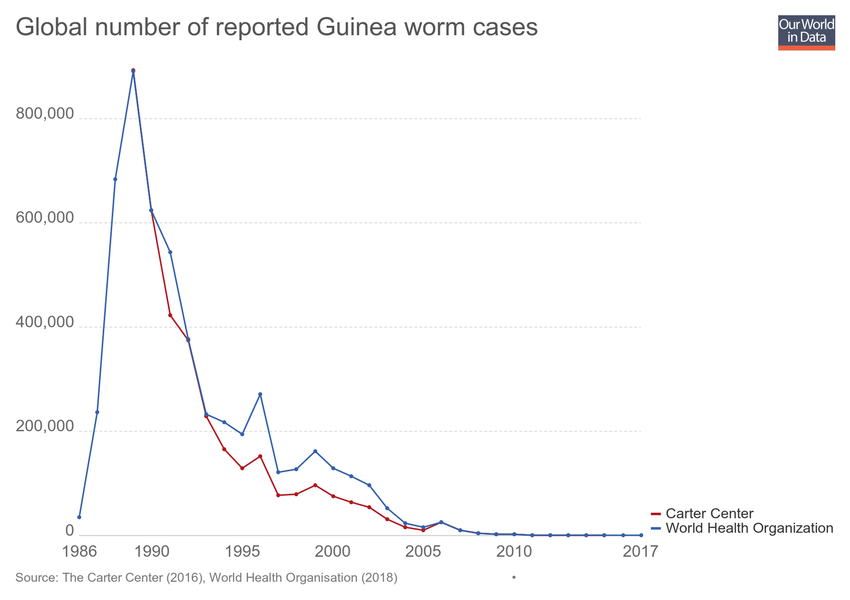
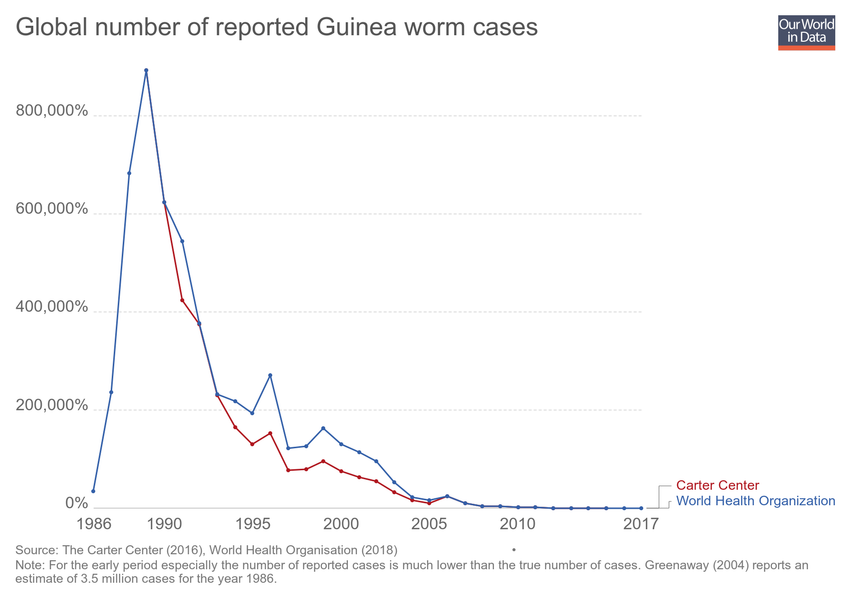
Updating chart global-number-of-reported-guinea-worm-cases

Changed region(s): [[0.0, 0.12, 0.9788, 0.99], [0.0, 0.48, 0.0918, 0.57], [0.1224, 0.63, 0.1529, 0.66]]

diff --git a/grapher/global-number-of-reported-guinea-worm-cases.html b/grapher/global-number-of-reported-guinea-worm-cases.html
@@ -1,4 +1,4 @@
-<!doctype html><html><head><meta name="viewport" content="width=device-width, initial-scale=1" /><title>Global number of reported Guinea worm cases - Our World in Data</title><meta name="description" content="An interactive visualization from Our World in Data." /><link rel="canonical" href="https://ourworldindata.org/grapher/global-number-of-reported-guinea-worm-cases" /><meta property="fb:app_id" content="1149943818390250" /><meta property="og:url" content="https://ourworldindata.org/grapher/global-number-of-reported-guinea-worm-cases" /><meta property="og:title" content="Global number of reported Guinea worm cases" /><meta property="og:description" content="An interactive visualization from Our World in Data." /><meta property="og:image" content="https://ourworldindata.org/grapher/exports/global-number-of-reported-guinea-worm-cases.png?v=6" /><meta property="og:image:width" content="850" /><meta property="og:image:height" content="600" /><meta property="og:site_name" content="Our World in Data" /><meta name="twitter:card" content="summary_large_image" /><meta name="twitter:site" content="@OurWorldInData" /><meta name="twitter:creator" content="@OurWorldInData" /><meta name="twitter:title" content="Global number of reported Guinea worm cases" /><meta name="twitter:description" content="An interactive visualization from Our World in Data." /><meta name="twitter:image" content="https://ourworldindata.org/grapher/exports/global-number-of-reported-guinea-worm-cases.png?v=6" /><style>
+<!doctype html><html><head><meta name="viewport" content="width=device-width, initial-scale=1" /><title>Global number of reported Guinea worm cases - Our World in Data</title><meta name="description" content="An interactive visualization from Our World in Data." /><link rel="canonical" href="https://ourworldindata.org/grapher/global-number-of-reported-guinea-worm-cases" /><meta property="fb:app_id" content="1149943818390250" /><meta property="og:url" content="https://ourworldindata.org/grapher/global-number-of-reported-guinea-worm-cases" /><meta property="og:title" content="Global number of reported Guinea worm cases" /><meta property="og:description" content="An interactive visualization from Our World in Data." /><meta property="og:image" content="https://ourworldindata.org/grapher/exports/global-number-of-reported-guinea-worm-cases.png?v=7" /><meta property="og:image:width" content="850" /><meta property="og:image:height" content="600" /><meta property="og:site_name" content="Our World in Data" /><meta name="twitter:card" content="summary_large_image" /><meta name="twitter:site" content="@OurWorldInData" /><meta name="twitter:creator" content="@OurWorldInData" /><meta name="twitter:title" content="Global number of reported Guinea worm cases" /><meta name="twitter:description" content="An interactive visualization from Our World in Data." /><meta name="twitter:image" content="https://ourworldindata.org/grapher/exports/global-number-of-reported-guinea-worm-cases.png?v=7" /><style>
         html, body {
             height: 100%;
             margin: 0;
@@ -20,8 +20,8 @@
         }
     </style><noscript><style>
                     figure { display: none !important; }
-                </style></noscript><link rel="stylesheet" href="https://ourworldindata.org/grapher/assets/commons.bundle.521782e703f0fe72f108.css" /><link rel="preload" href="/grapher/data/variables/305+67406.json?v=6" as="fetch" crossorigin /></head><body class="singleChart"><figure data-grapher-src="/grapher/global-number-of-reported-guinea-worm-cases"></figure><noscript id="fallback"><img src="/grapher/exports/global-number-of-reported-guinea-worm-cases.svg" /><p>Interactive visualization requires JavaScript</p></noscript><script src="https://cdn.polyfill.io/v2/polyfill.min.js?features=es6,fetch"></script><script src="https://ourworldindata.org/grapher/assets/commons.bundle.521782e703f0fe72f108.js"></script><script src="https://ourworldindata.org/grapher/assets/charts.bundle.521782e703f0fe72f108.js"></script><script>
-        var jsonConfig = {"id":224,"map":{"projection":"World","targetYear":1989,"variableId":305,"timeTolerance":1,"baseColorScheme":"BuGn","colorSchemeInvert":false,"colorSchemeLabels":[],"colorSchemeValues":[],"legendDescription":"","customColorsActive":false,"colorSchemeMinValue":0,"customNumericColors":[],"customCategoryColors":[],"customCategoryLabels":[],"customHiddenCategories":[]},"tab":"chart","slug":"global-number-of-reported-guinea-worm-cases","type":"LineChart","title":"Global number of reported Guinea worm cases","xAxis":{"scaleType":"linear"},"yAxis":{"min":0,"scaleType":"linear","labelDistance":-10,"canChangeScaleType":true},"version":6,"hasMapTab":false,"originUrl":"https://ourworldindata.org/eradication-of-diseases/","stackMode":null,"dimensions":[{"display":{"name":"Carter Center","unit":"cases","tolerance":5,"isProjection":false},"property":"y","targetYear":2000,"variableId":305},{"display":{"name":"World Health Organization","unit":"cases"},"property":"y","variableId":67406}],"entityType":"country","sourceDesc":"The Carter Center (2016), World Health Organisation (2018)","hasChartTab":true,"isPublished":true,"selectedData":[{"color":"#B0171F","index":0,"entityId":355},{"color":"#3360a9","index":1,"entityId":355}],"internalNotes":"","addCountryMode":"change-country","hideTitleAnnotation":true};
+                </style></noscript><link rel="stylesheet" href="https://ourworldindata.org/grapher/assets/commons.bundle.521782e703f0fe72f108.css" /><link rel="preload" href="/grapher/data/variables/305+67406.json?v=7" as="fetch" crossorigin /></head><body class="singleChart"><figure data-grapher-src="/grapher/global-number-of-reported-guinea-worm-cases"></figure><noscript id="fallback"><img src="/grapher/exports/global-number-of-reported-guinea-worm-cases.svg" /><p>Interactive visualization requires JavaScript</p></noscript><script src="https://cdn.polyfill.io/v2/polyfill.min.js?features=es6,fetch"></script><script src="https://ourworldindata.org/grapher/assets/commons.bundle.521782e703f0fe72f108.js"></script><script src="https://ourworldindata.org/grapher/assets/charts.bundle.521782e703f0fe72f108.js"></script><script>
+        var jsonConfig = {"id":224,"map":{"projection":"World","targetYear":1989,"variableId":305,"timeTolerance":1,"baseColorScheme":"BuGn","colorSchemeInvert":false,"colorSchemeLabels":[],"colorSchemeValues":[],"legendDescription":"","customColorsActive":false,"colorSchemeMinValue":0,"customNumericColors":[],"customCategoryColors":[],"customCategoryLabels":[],"customHiddenCategories":[]},"tab":"chart","note":"For the early period especially the number of reported cases is much lower than the true number of cases. Greenaway (2004) reports an estimate of 3.5 million cases for the year 1986.","slug":"global-number-of-reported-guinea-worm-cases","type":"LineChart","title":"Global number of reported Guinea worm cases","xAxis":{"scaleType":"linear"},"yAxis":{"min":0,"scaleType":"linear","labelDistance":-10,"canChangeScaleType":true},"version":7,"hasMapTab":false,"originUrl":"https://ourworldindata.org/eradication-of-diseases/","stackMode":null,"dimensions":[{"display":{"name":"Carter Center","unit":"cases","tolerance":5,"isProjection":false},"property":"y","targetYear":2000,"variableId":305},{"display":{"name":"World Health Organization","unit":"cases"},"property":"y","variableId":67406}],"entityType":"country","sourceDesc":"The Carter Center (2016), World Health Organisation (2018)","hasChartTab":true,"isPublished":true,"selectedData":[{"color":"#B0171F","index":0,"entityId":355},{"color":"#3360a9","index":1,"entityId":355}],"internalNotes":"","addCountryMode":"change-country","hideTitleAnnotation":true};
         var figure = document.getElementsByTagName("figure")[0];
         try {
             window.App = {};
